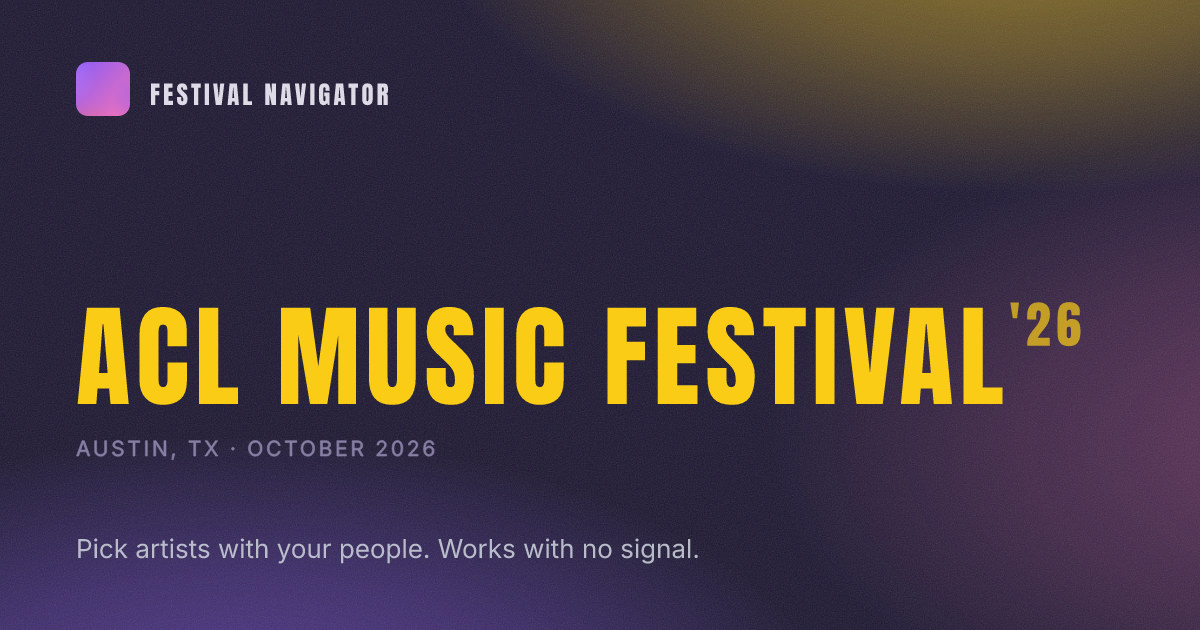
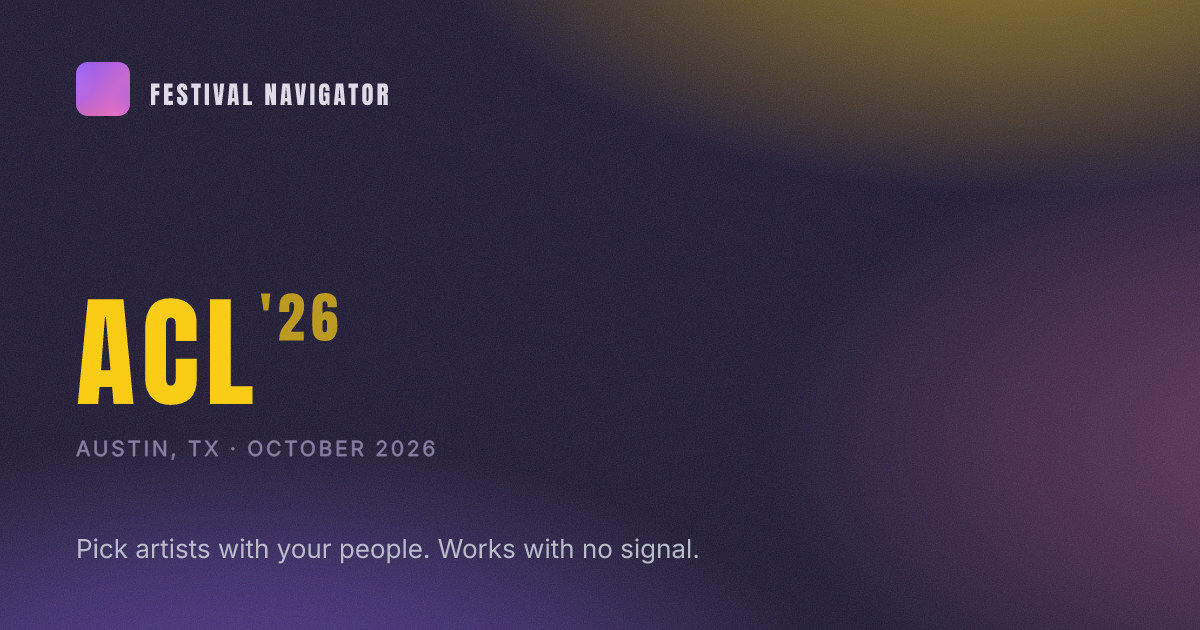
Short festival names: ACL and Seismic, and a validator rule that keeps them short
Kevin, 2026-10-03: "For ACL we can just say 'ACL' with the year not ACL
music festival. Music festival is implied lol. Pretty much all our fests
should have short tight names".

What changed:
- data/festivals: acl-2025 and acl-2026 are "ACL" (was "ACL Music
  Festival"), seismic-9 is "Seismic" (was "Seismic Dance Event 9.0"), in
  each file and in index.json. The header already shows the year beside
  the name, so the dock reads ACL '26 and the room head SAT ACL · OCT 3 ·
  WEEKEND 1 · ZILKER PARK now fits a 390 phone with its venue. The other
  names were already short and are unchanged.
- Display only, confirmed by grep: tests/fixtures/live-pick-keys.json
  freezes ids, artist names and day labels, never a festival's name, and
  crew docs key festivals by id; nobody's picks move.
- The rule (api/_lib/festival-rules.mjs festNameProblems, FEST_NAME_MAX
  20): a name over 20 characters, or one ending in "Festival", is an
  error in scripts/validate-festivals.mjs (CI), said once on the index
  entry. It is NOT in validateFestivalDoc, which /api/festival-add also
  runs: candidates come named the way their sites name them, and a rule
  there would refuse a festival rather than shorten its name.
- A file's name differing from its index.json entry's is now an ERROR
  (it was a warning): the landing and api/share.js read index.json's, the
  wall reads the file's. The accent drift still only warns.
- assets/og/acl-2025.jpg, acl-2026.jpg, seismic-9.jpg re-rendered with
[…]

Changed region(s): [[0.0617, 0.4524, 0.925, 0.6635]]

diff --git a/service-worker.js b/service-worker.js
@@ -3,7 +3,7 @@
 // scripts/sw-stamp.mjs` does the bump and re-stamps; the suite fails when the
 // stamp is stale, so a silent asset change can never ship under an old version.
 const CACHE_VERSION = 'festival-nav-v112'; // v44 = the notes/desktop round: threads, the zoom morph, the day whisper, aura sheets; pick-as moved to Settings (v43 was its first cut)
-const ASSET_STAMP = 'cdbc67ef'; // sha1 of APP_CORE — node scripts/sw-stamp.mjs after any cached-asset change (the suite checks it)
+const ASSET_STAMP = '37d77576'; // sha1 of APP_CORE — node scripts/sw-stamp.mjs after any cached-asset change (the suite checks it)
 
 // Festival JSONs live in their OWN cache, outside the version-keyed shell
 // cache — because activate deletes every old version cache wholesale, and

diff --git a/js/v3/wall.js b/js/v3/wall.js
@@ -1956,8 +1956,8 @@ function thinByPeople(root, ctx) {
     for (const kid of [...room.children]) if (kid !== head) kid.remove();
     room.classList.add('quiet');
     // The words are what this line is for, so they never give way: the date
-    // the head leads with stays in its sub (which ellipsizes first — ACL's
-    // "SAT ACL MUSIC FESTIVAL  OCT 3 · WEEKEND 1" fills a phone), the room's
+    // the head leads with stays in its sub (which ellipsizes first — a long
+    // head and its "OCT 3 · WEEKEND 1" can fill a phone), the room's
     // own place goes (there is nothing there to find), and the words sit in
     // their own span after it (v3.css `.quiet-words`).
     const sub = head.querySelector('.sub');

diff --git a/docs/add-a-festival.md b/docs/add-a-festival.md
@@ -1,6 +1,7 @@
 # Adding a festival
 
-*Updated 2026-09-25 — a section can read by time (`layout: "by-time"` in its
+*Updated 2026-10-03 — a festival's `name` is short and tight: the name
+people say, never the poster's title (below). 2026-09-25 — a section can read by time (`layout: "by-time"` in its
 `dayMeta`, below) and a card can say its part of town (`area`). 2026-09-23 — a
 cancelled act keeps its entry and says so (`cancelled`, below). 2026-09-16 — MODEL-V4: a section entry says `night` or
 `date`; one rule for guessed times; doors go in `doors`.*
@@ -27,6 +28,17 @@ Two files, one command:
 }
 ```
 
+   - `name`: **short and tight — the name people say** (Kevin, 2026-10-03:
+     "For ACL we can just say 'ACL' with the year not ACL music festival.
+     Music festival is implied lol"). `"ACL"`, not `"ACL Music Festival"`;
+     `"Seismic"`, not `"Seismic Dance Event 9.0"`. The year goes in `year`
+     (`"'26"`) and shows beside the name in the header, so it never goes in
+     the name. The name rides into the room heads (`SAT ACL`), the Share's
+     first line, the toasts and the link preview. The validator errors on a
+     name over 20 characters or one ending in "Festival", and on a file
+     whose name differs from its `index.json` entry's (the landing reads the
+     index, the wall the file). A name is display only — never a pick key —
+     so shortening one moves nobody's picks; re-render the preview (step 4).
    - `status`: `lineup` (no set times yet — app shows the sortable artist
      list), `scheduled` (full grid), or `archived` (past).
    - `artists[]` is always required (it feeds the list view). Optional per
@@ -81,7 +93,7 @@ Two files, one command:
      grid to split, so it shows both weekends on one wall with the W1/W2 tags
      on the cards. Give each `dayMeta` entry
      `dates: { "W1": "Oct 2", "W2": "Oct 9" }` so each day's first head
-     (`FRI ACL MUSIC FESTIVAL  Oct 2 · Weekend 1`) shows that weekend's real
+     (`FRI ACL  Oct 2 · Weekend 1`) shows that weekend's real
      date. Keep `weekends` tags on the top-level
      `artists[]` — they drive the picker's presence and the search extras.
      The two spellings never cross (`weekend` on a grid set, `weekends` on
@@ -114,7 +126,8 @@ Two files, one command:
      open lands on the right day. The validator rejects an unknown zone.
 
 2. **Add an entry to `data/festivals/index.json`** (keep it ordered by date,
-   archived last — the first non-archived entry is the default festival).
+   archived last — the first non-archived entry is the default festival),
+   its `name` the file's own, character for character.
    Every index entry needs `startsOn: "YYYY-MM-DD"` (the festival's first
    day) — it drives the landing's date sort and its "Sep '26" labels; the
    validator rejects entries without it.
